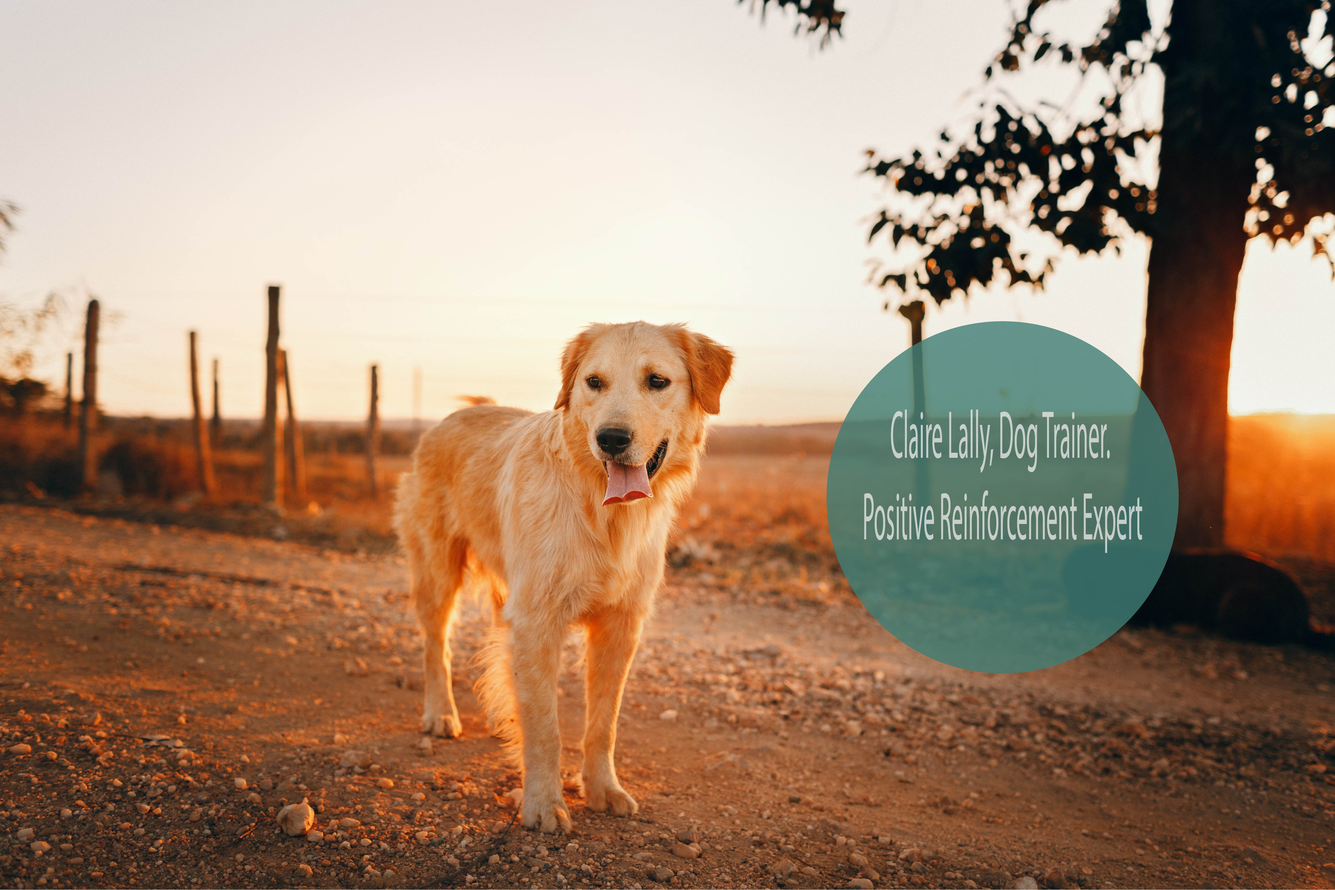
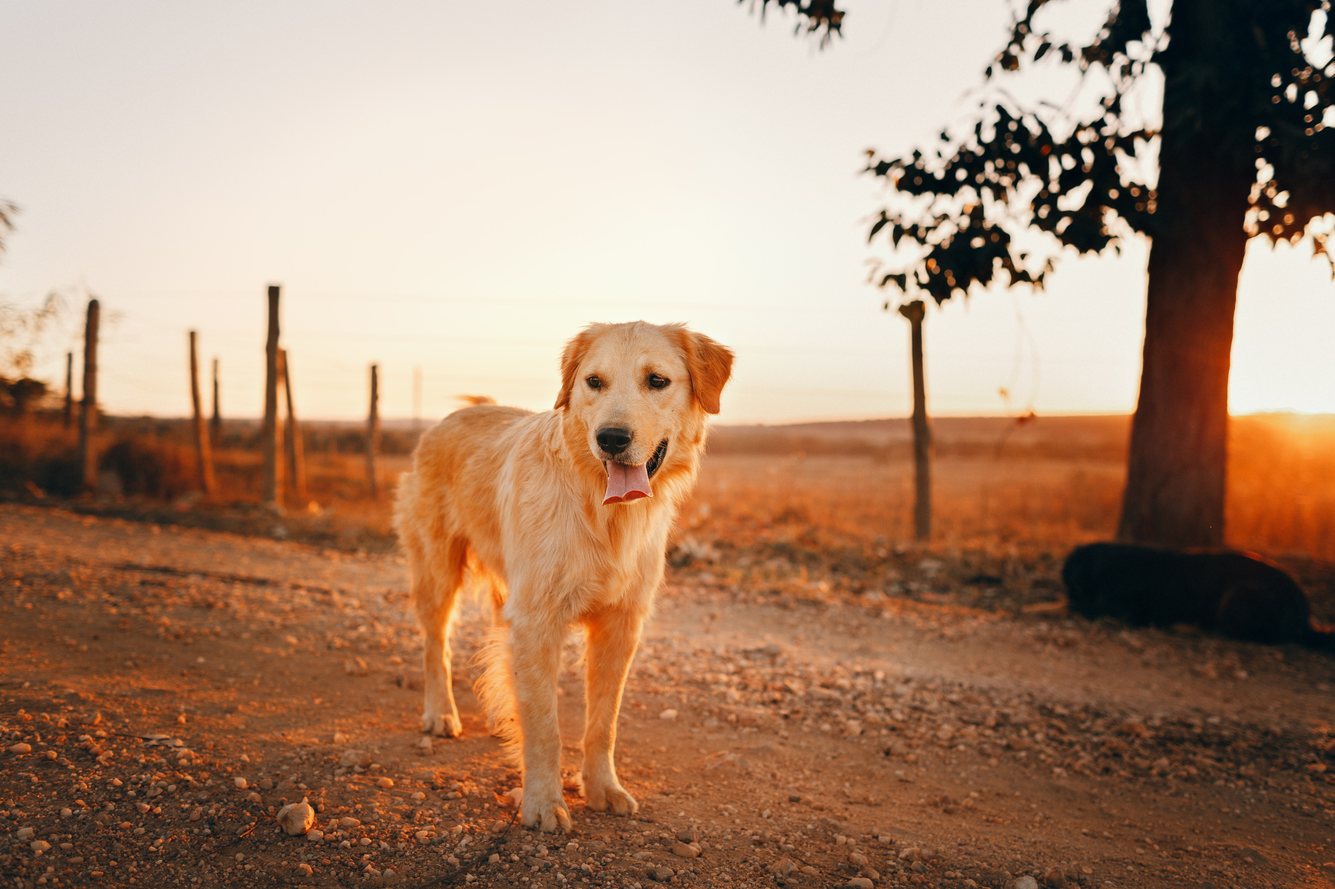
Update to landing page image & removed carousel

Changed region(s): [[0.5938, 0.3416, 0.9062, 0.7764], [0.4062, 0.9938, 0.5938, 1.0], [0.9688, 0.9938, 1.0, 1.0]]

diff --git a/index.html b/index.html
@@ -7,9 +7,6 @@
     <meta http-equiv="X-UA-Compatible" content="ie=edge">
     <title>The Travelling Dog Trainer</title>
     <link rel="stylesheet" href="https://stackpath.bootstrapcdn.com/bootstrap/4.4.1/css/bootstrap.min.css" integrity="sha384-Vkoo8x4CGsO3+Hhxv8T/Q5PaXtkKtu6ug5TOeNV6gBiFeWPGFN9MuhOf23Q9Ifjh" crossorigin="anonymous">
-    <script src="https://code.jquery.com/jquery-3.4.1.slim.min.js" integrity="sha384-J6qa4849blE2+poT4WnyKhv5vZF5SrPo0iEjwBvKU7imGFAV0wwj1yYfoRSJoZ+n" crossorigin="anonymous"></script>
-    <script src="https://cdn.jsdelivr.net/npm/popper.js@1.16.0/dist/umd/popper.min.js" integrity="sha384-Q6E9RHvbIyZFJoft+2mJbHaEWldlvI9IOYy5n3zV9zzTtmI3UksdQRVvoxMfooAo" crossorigin="anonymous"></script>
-    <script src="https://stackpath.bootstrapcdn.com/bootstrap/4.4.1/js/bootstrap.min.js" integrity="sha384-wfSDF2E50Y2D1uUdj0O3uMBJnjuUD4Ih7YwaYd1iqfktj0Uod8GCExl3Og8ifwB6" crossorigin="anonymous"></script>
    <link rel="stylesheet" href="assets/css/style.css" type="text/css" />
 </head>
 
@@ -31,7 +28,12 @@
         </header>
         
         <section>
-            <img src="assets/images/LandingImage.jpg" class="img-fluid" alt="Responsive image">
+           <div class="Main-Landing">
+            <img src ="assets/images/LandingImage.jpg" class="img-fluid">
+            <span class=text-block>
+            <h2 class=text>Dog Trainer, Claire Lally</h2>
+            <h3 class="subtext">Positive ReInforcement Expert</h3></span>
+        </div>
         </section>
         <section>
             <div id="Services">
@@ -53,50 +55,15 @@
     </div>
         </section>
         <section>
-          <div id="carouselExampleCaptions" class="carousel slide" data-ride="carousel">
-  <ol class="carousel-indicators">
-    <li data-target="#carouselExampleCaptions" data-slide-to="0" class="active"></li>
-    <li data-target="#carouselExampleCaptions" data-slide-to="1"></li>
-    <li data-target="#carouselExampleCaptions" data-slide-to="2"></li>
-  </ol>
-  <div class="carousel-inner">
-    <div class="carousel-item active">
-      <img src="assets/images/Carousel1.jpg" class="d-block w-100 img-fluid" alt="...">
-      <div class="carousel-caption d-none d-md-block">
-        <h5>Buddy, from Iceland.</h5>
-        <p>On my first trip to Iceland I met Buddy.  After a home visit & a detailed training plan, his wonderful family are able to bring him on long hikes off the leash without the fear of him running away!</p>
-      </div>
-    </div>
-    <div class="carousel-item">
-      <img src="assets/images/Carousel2.jpg" class="d-block w-100 img-fluid" >
-      <div class="carousel-caption d-none d-md-block">
-        <h5>Second slide label</h5>
-        <p>Lorem ipsum dolor sit amet, consectetur adipiscing elit.</p>
-      </div>
-    </div>
-    <div class="carousel-item">
-      <img src="assets/images/Carousel3.jpg" class="d-block w-100 img-fluid">
-      <div class="carousel-caption d-none d-md-block">
-        <h5>Third slide label</h5>
-        <p>Praesent commodo cursus magna, vel scelerisque nisl consectetur.</p>
-      </div>
-    </div>
-  </div>
-  <a class="carousel-control-prev" href="#carouselExampleCaptions" role="button" data-slide="prev">
-    <span class="carousel-control-prev-icon" aria-hidden="true"></span>
-    <span class="sr-only">Previous</span>
-  </a>
-  <a class="carousel-control-next" href="#carouselExampleCaptions" role="button" data-slide="next">
-    <span class="carousel-control-next-icon" aria-hidden="true"></span>
-    <span class="sr-only">Next</span>
-  </a>
-</div>
+        
         </section>
 
         <footer>
             Social media links & contact details
         </footer>
-
+    <script src="https://code.jquery.com/jquery-3.4.1.slim.min.js"></script>
+    <script src="https://cdn.jsdelivr.net/npm/popper.js@1.16.0/dist/umd/popper.min.js"></script>
+    <script src="https://stackpath.bootstrapcdn.com/bootstrap/4.4.1/js/bootstrap.min.js"></script>
 </body>
 
 </html>

diff --git a/assets/css/style.css b/assets/css/style.css
@@ -5,6 +5,23 @@ header
 {
     background-color: #fffff;
 }
+
+.Main-Landing
+    {
+        position: relative;
+    }
+.text-block
+{
+    position:absolute;
+    bottom: 30%;
+  right: 20%;
+  background-color: cadetblue;
+  opacity: 80%;
+  color: #c4ccd4;
+  padding: 50px, 20px, 50px;
+  font-size:0.4em;
+}
+
 #logo
     {
         letter-spacing: 2px;
@@ -22,9 +39,9 @@ header
     letter-spacing:2px;
     text-align: center;
 }
-.nav-item
+.navbar-light .navbar-nav .nav-link
 {
-    color: #2F4F4F!important;
+    color: #2F4F4F;
 }
 
 .nav-item:hover
